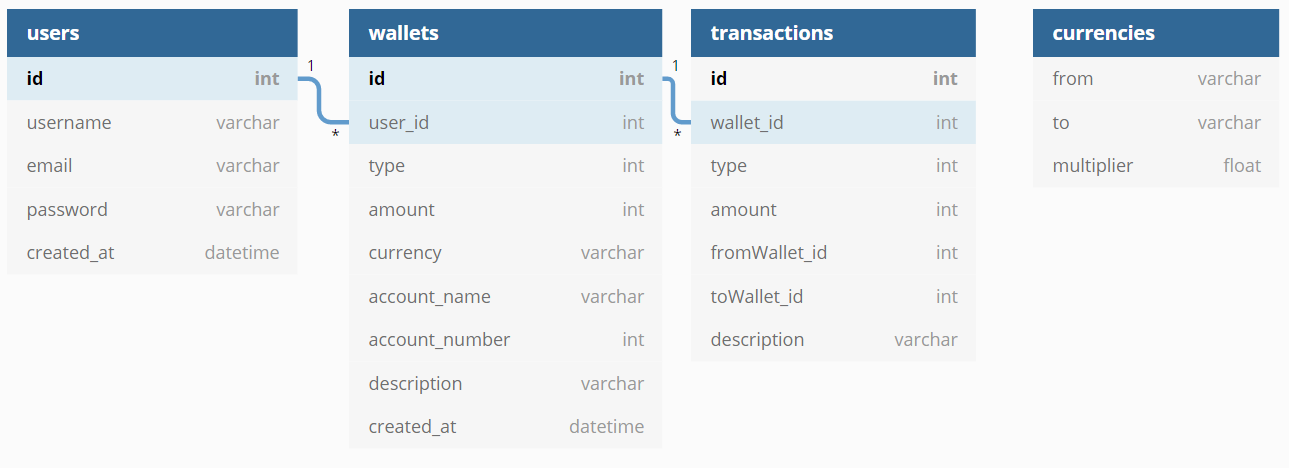
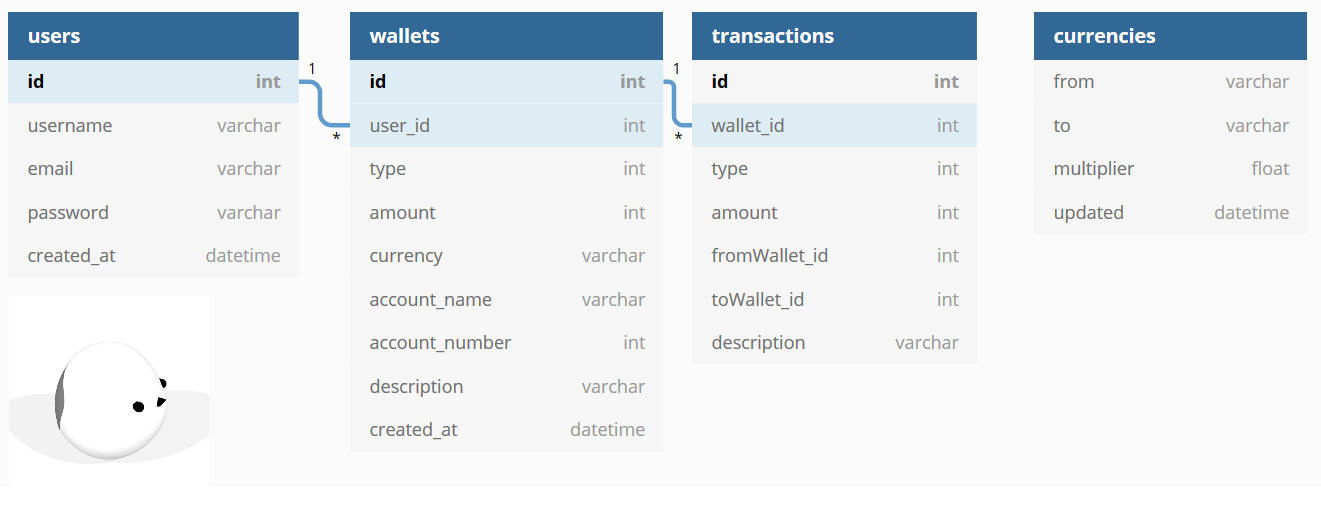
Changed quite a lot, see description
Deleted unnecessary stuff, added watermark to structure images and updated DB structure image. Added example DB entries file,  and added currencies table to creation sql file.

diff --git a/Algorithms/Database/README.md b/Algorithms/Database/README.md
@@ -29,3 +29,4 @@
   - from = {exactly 3 long VARCHAR, NOT NULL}
   - to = {exactly 3 long VARCHAR, NOT NULL}
   - multiplier = {FLOAT, NOT NULL}
+  - updated = {DATETIME, NOT NULL}
